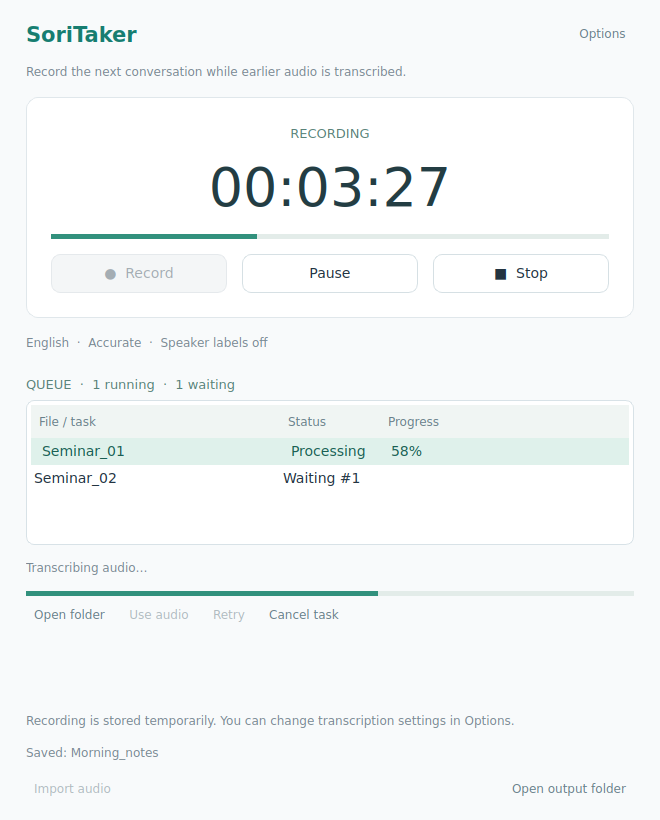
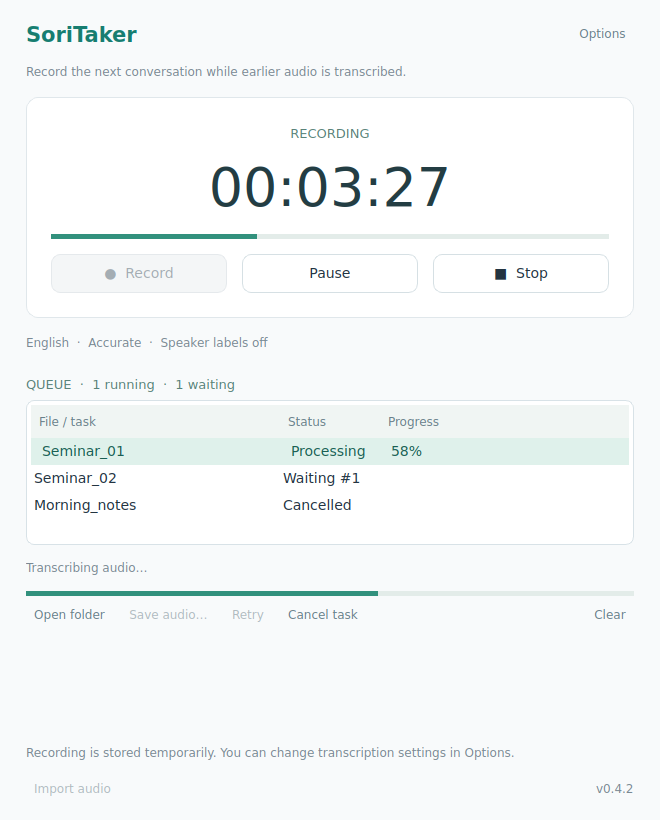
Release 0.4.2: add queue Clear, show version, and rename Save audio

diff --git a/src/gui.py b/src/gui.py
@@ -13,9 +13,9 @@ from PySide6.QtGui import QDesktopServices, QFontDatabase, QIcon
 from PySide6.QtWidgets import (QApplication, QWidget, QVBoxLayout, QHBoxLayout, QLabel,
     QPushButton, QLineEdit, QComboBox, QCheckBox, QSpinBox, QFileDialog, QMessageBox,
     QDialog, QProgressBar, QFrame, QTreeWidget, QTreeWidgetItem, QHeaderView, QScrollArea)
-from core import ensure_dirs, atomic_json, read_json, new_note, save_note, timestamp, discard_pending
+from core import ensure_dirs, atomic_json, read_json, new_note, save_note, timestamp, discard_pending, VERSION
 from models import ready, MODELS
-from job_queue import JobQueue, ACTIVE, RETRYABLE, source_of
+from job_queue import JobQueue, ACTIVE, RETRYABLE, CLEARABLE, source_of
 
 STYLE = '''
 QWidget { background: #f8fafb; color: #233441; font-family: ".AppleSystemUIFont", "Helvetica Neue", sans-serif; font-size: 14px; }
@@ -277,7 +277,6 @@ class Window(QWidget):
         self.queue=JobQueue(self.root, recover=not demo)
         self.queue_rows={}
         self.completed_ids=set()
-        self.last_output_folder=''
         self.source=''
         self.saved=False
         self.saved_paths=[]
@@ -416,12 +415,16 @@ class Window(QWidget):
         queue_layout.addWidget(self.progress)
         actions=QHBoxLayout()
         self.queue_open=button('Open folder',self.open_job_folder,'link')
-        self.queue_audio=button('Use audio',self.use_job_audio,'link')
+        self.queue_audio=button('Save audio…',self.save_job_audio,'link')
+        self.queue_audio.setToolTip('Open the preserved recording with Audio only selected.')
         self.queue_retry=button('Retry',self.retry_job,'link')
         self.cancel_button=button('Cancel task',self.cancel_job,'link')
         for widget in (self.queue_open,self.queue_audio,self.queue_retry,self.cancel_button):
             actions.addWidget(widget)
         actions.addStretch()
+        self.queue_clear=button('Clear',self.clear_finished_jobs,'link')
+        self.queue_clear.setToolTip('Remove finished, cancelled, and failed tasks from the list. Audio files are kept.')
+        actions.addWidget(self.queue_clear)
         queue_layout.addLayout(actions)
         layout.addWidget(self.queue_panel)
         self.queue_panel.hide()
@@ -438,7 +441,8 @@ class Window(QWidget):
         self.review_button.hide()
         footer.addWidget(self.review_button)
         footer.addStretch()
-        footer.addWidget(button('Open output folder',self.open_output_folder,'link'))
+        self.version_label=text(f'v{VERSION}')
+        footer.addWidget(self.version_label)
         layout.addLayout(footer)
         self.timer=QTimer(self)
         self.timer.timeout.connect(self.poll)
@@ -481,13 +485,6 @@ class Window(QWidget):
     def save_dialog_closed(self):
         if self.source and not self.recording:
             self.status.setText('Unsaved audio is preserved. Click Review recording to save or discard it.')
-
-    def open_output_folder(self):
-        folder=Path(self.last_output_folder or self.folder.text()).expanduser()
-        if folder.is_dir():
-            QDesktopServices.openUrl(QUrl.fromLocalFile(str(folder)))
-        else:
-            QMessageBox.information(self,'Output folder','This folder will be created when you save:\n'+str(folder))
 
     def keep_pending(self):
         # Unsaved recordings are kept on disk even when starting another recording.
@@ -725,23 +722,21 @@ class Window(QWidget):
 
     def refresh_queue(self):
         # A reported 100% can precede file export. Hide only confirmed successes.
-        completed=[item for item in self.queue.items if item['state']=='complete' and item['id'] not in self.completed_ids]
+        completed=[item for item in self.queue.items if item['state']=='complete' and not item.get('dismissed')
+                   and item['id'] not in self.completed_ids]
         if completed:
             self.completed_ids.update(item['id'] for item in completed)
             item=completed[-1]
             spec=item['spec']
             result=item.get('result',{})
-            paths=result.get('saved_paths',[])
-            if paths:
-                self.last_output_folder=str(Path(paths[0]).parent)
             message=('Model ready: '+MODELS[spec['model']]['name'] if spec['kind']=='download' else
                      'Saved: '+spec['export_name'])
             if result.get('warnings'):
                 message+=' — '+' / '.join(result['warnings'])
             self.completion_notice.setText(message)
-            self.completion_notice.setToolTip(message)
+            self.completion_notice.setToolTip(message+'\n'+'\n'.join(result.get('saved_paths',[])))
             self.completion_notice.show()
-        visible=[item for item in self.queue.items if item['state']!='complete']
+        visible=[item for item in self.queue.items if item['state']!='complete' and not item.get('dismissed')]
         visible_ids={item['id'] for item in visible}
         self.queue_view.blockSignals(True)
         for key in list(self.queue_rows):
@@ -782,6 +777,8 @@ class Window(QWidget):
         self.queue_open.setEnabled(bool(item))
         self.queue_retry.setEnabled(state in RETRYABLE)
         self.cancel_button.setEnabled(state in ('queued','running'))
+        self.queue_clear.setEnabled(any(task['state'] in CLEARABLE and not task.get('dismissed')
+                                       and task is not self.queue.active for task in self.queue.items))
         source=source_of(item['spec']) if item else ''
         self.queue_audio.setEnabled(state in RETRYABLE and bool(source) and Path(source).is_file() and
                                    not self.recording and not self.queue.owns_source(source))
@@ -801,7 +798,7 @@ class Window(QWidget):
             folder=Path(paths[0]).parent if paths else self.queue.folder(item)
             QDesktopServices.openUrl(QUrl.fromLocalFile(str(folder)))
 
-    def use_job_audio(self):
+    def save_job_audio(self):
         item=self.selected_job()
         if not item or item['state'] not in RETRYABLE or self.recording:
             return
@@ -812,7 +809,20 @@ class Window(QWidget):
             self.filename.setText(item['spec'].get('export_name',Path(source).stem))
             if item['spec'].get('export_folder'):
                 self.folder.setText(item['spec']['export_folder'])
+            self.save_mode.setCurrentIndex(self.save_mode.findData('save_audio'))
             self.open_save_dialog()
+
+    def clear_finished_jobs(self):
+        try:
+            count=self.queue.clear_finished()
+            if count:
+                self.completion_notice.hide()
+                if not self.recording and not self.source:
+                    self.status.setText('Queue cleared. Audio and saved files are preserved.')
+        except OSError as exc:
+            QMessageBox.warning(self,'Could not clear queue',str(exc))
+        finally:
+            self.refresh_queue()
 
     def retry_job(self):
         item=self.selected_job()

diff --git a/src/job_queue.py b/src/job_queue.py
@@ -16,6 +16,7 @@ from models import clear_legacy_offline_flags
 
 ACTIVE = {'queued', 'running', 'cancelling'}
 RETRYABLE = {'failed', 'cancelled', 'interrupted'}
+CLEARABLE = RETRYABLE | {'complete'}
 
 
 def source_of(spec):
@@ -42,7 +43,7 @@ class JobQueue:
                     continue
                 if not isinstance(item, dict):
                     item = dict(created=folder.stat().st_mtime_ns, state='interrupted',
-                                message='Recovered unfinished task. Retry or use the audio file.')
+                                message='Recovered unfinished task. Retry or save the audio file.')
                     source = source_of(spec)
                     original = Path(spec.get('input_original', ''))
                     if source and not Path(source).is_file() and original.is_file() and original.resolve().parent == (self.root/'recordings').resolve():
@@ -190,7 +191,7 @@ class JobQueue:
                     item.update(state='complete', result=result, message=result['message'], progress=100)
                 elif item['state'] == 'cancelling':
                     item.update(state='interrupted' if self.stopping else 'cancelled',
-                                message='Audio is preserved. Retry or use the audio file.', progress=None)
+                                message='Audio is preserved. Retry or save the audio file.', progress=None)
                 else:
                     item.update(state='failed', message=status.get('message') or 'Worker stopped. Audio is preserved.', progress=None)
                 self.persist(item)
@@ -226,11 +227,22 @@ class JobQueue:
         source = source_of(item['spec'])
         if source and self.owns_source(source):
             raise ValueError('This file is already being processed in another queue entry.')
-        item.update(state='queued', message='Waiting', progress=None, created=time.time_ns())
+        item.update(state='queued', message='Waiting', progress=None, created=time.time_ns(), dismissed=False)
         # Do not erase completion receipts. The worker checks them under the lock.
         self.persist(item)
         self.items.remove(item)
         self.items.append(item)
+
+    def clear_finished(self):
+        """Dismiss finished rows durably; retain audio, logs, and export receipts."""
+        count = 0
+        for item in self.items:
+            if item['state'] in CLEARABLE and not item.get('dismissed') and item is not self.active:
+                updated = dict(item, dismissed=True)
+                self.persist(updated)
+                item['dismissed'] = True
+                count += 1
+        return count
 
     def shutdown(self):
         self.stopping = True

diff --git a/tests/test_recording_choices.py b/tests/test_recording_choices.py
@@ -345,6 +345,39 @@ class RecordingChoiceGUITests(RecordingChoiceFixture, unittest.TestCase):
         self.assertEqual(spec['kind'], 'save_audio')
         self.assertEqual(spec['source'], str(self.source))
 
+    def test_save_audio_opens_audio_only_and_clear_keeps_capture_and_waiting_work(self):
+        cancelled=self.window.queue.enqueue(dict(kind='save_audio',source=str(self.source),
+            export_name='Keep audio',export_folder=str(self.root/'exports')))
+        self.window.queue.cancel(cancelled)
+        waiting=self.window.queue.enqueue(dict(kind='download',model='large'))
+        self.window.refresh_queue()
+        self.window.queue_view.setCurrentItem(self.window.queue_rows[cancelled['id']])
+        self.window.queue_audio.click()
+        self.assertTrue(self.window.save_dialog.isVisible())
+        self.assertEqual(self.window.save_mode.currentData(),'save_audio')
+        self.assertEqual(self.window.filename.text(),'Keep audio')
+        self.window.save_dialog.reject()
+        self.window.source=''
+        rec=gui.Recorder(self.root/'recordings'/'next.wav')
+        self.window.recording=rec
+        self.window.state.setText('RECORDING')
+        self.window.queue_clear.click()
+        self.assertEqual(self.window.queue_view.topLevelItemCount(),1)
+        self.assertIs(self.window.selected_job(),waiting)
+        self.assertIs(self.window.recording,rec)
+        self.assertFalse(rec.stop_event.is_set())
+        self.assertEqual(self.window.state.text(),'RECORDING')
+        self.assertTrue(Path(job_queue.source_of(cancelled['spec'])).is_file())
+        self.assertFalse(self.window.queue_clear.isEnabled())
+        self.window.queue=job_queue.JobQueue(self.root)
+        self.window.refresh_queue()
+        self.assertEqual(self.window.queue_view.topLevelItemCount(),1)
+        self.window.queue.cancel(self.window.selected_job())
+        self.window.refresh_queue()
+        self.window.queue_clear.click()
+        self.assertEqual(self.window.queue_view.topLevelItemCount(),0)
+        self.assertTrue(self.window.queue_panel.isHidden())
+
     def test_discard_cancel_preserves_then_confirm_deletes_pending_work(self):
         folder, job = self.partial_attempt(self.source)
         self.window.set_source(str(self.source))

diff --git a/tests/test_job_queue.py b/tests/test_job_queue.py
@@ -68,6 +68,41 @@ class Fixture(unittest.TestCase):
 
 
 class QueueTests(Fixture):
+    def test_clear_retains_audio_and_receipts_and_persists_across_restart(self):
+        cancelled=self.queue.enqueue(self.spec('Cancelled'))
+        self.queue.cancel(cancelled)
+        interrupted=self.queue.enqueue(self.spec('Interrupted'))
+        interrupted['state']='interrupted'
+        self.queue.persist(interrupted)
+        completed=self.queue.enqueue(self.spec('Completed'))
+        receipt=self.queue.folder(completed)/'result.json'
+        atomic_json(receipt,dict(state='complete',message='Saved',saved_paths=[]))
+        completed['state']='complete'
+        pending=self.queue.enqueue(self.spec('Waiting'))
+        stopping=self.queue.enqueue(self.spec('Stopping'))
+        stopping['state']='cancelling'
+        self.queue.active=stopping
+        self.assertEqual(self.queue.clear_finished(),3)
+        self.assertEqual(self.queue.clear_finished(),0)
+        self.assertTrue(Path(source_of(cancelled['spec'])).is_file())
+        self.assertTrue(Path(source_of(interrupted['spec'])).is_file())
+        self.assertTrue(receipt.is_file())
+        self.assertFalse(pending.get('dismissed',False))
+        self.assertFalse(stopping.get('dismissed',False))
+        restored=JobQueue(self.root)
+        self.assertEqual({i['id'] for i in restored.items if i.get('dismissed')},
+                         {cancelled['id'],interrupted['id'],completed['id']})
+        self.assertTrue(Path(source_of(cancelled['spec'])).is_file())
+
+    def test_clear_failure_keeps_task_visible_and_preserves_source(self):
+        item=self.queue.enqueue(self.spec('Keep'))
+        self.queue.cancel(item)
+        with patch.object(self.queue,'persist',side_effect=OSError('Disk full')):
+            with self.assertRaises(OSError):
+                self.queue.clear_finished()
+        self.assertFalse(item.get('dismissed',False))
+        self.assertTrue(Path(source_of(item['spec'])).is_file())
+
     def test_fifo_and_frozen_settings_while_another_job_is_running(self):
         spec = self.spec('First','transcribe')
         with patch('job_queue.subprocess.Popen',side_effect=FakeProcess) as spawn:

diff --git a/src/core.py b/src/core.py
@@ -10,7 +10,7 @@ from datetime import datetime
 from pathlib import Path
 
 APP_NAME = "SoriTaker"
-VERSION = "0.4.1"
+VERSION = "0.4.2"
 
 
 def data_home() -> Path:

diff --git a/README.md b/README.md
@@ -7,7 +7,7 @@ Record, pause, choose what to keep, and save audio with an optional Korean or
 English transcript. The interface, installer messages, diagnostics, and developer
 documentation are in English. The Korean language option uses its native label.
 
-**Version: 0.4.1 · Early personal-use release**
+**Version: 0.4.2 · Early personal-use release**
 
 ![SoriTaker recording screen](preview.png)
 
@@ -118,14 +118,14 @@ folder. The old app is backed up only after the new build passes its checks.
      a model, transcribing, or converting its format. No models are required.
 6. The dialog closes as soon as the task is queued, so you can start the next
    recording immediately. Successful tasks disappear from **Queue** after their
-   files finish saving. **Open output folder** opens the most recently saved
-   output folder, or your configured destination if nothing has finished yet.
+   files finish saving. The version is shown at the bottom right of the main
+   screen. Saved output paths are also available in the completion message tooltip.
 
 ![Save dialog opened by Stop](preview-save.png)
 
 **Cancel**, Escape, or closing the save dialog keeps the unsaved audio. Click
 **Review recording** to reopen it with the same filename and choices. Imported
-files and **Use audio** open this dialog too. An unsaved microphone recording
+files and **Save audio…** open this dialog too. An unsaved microphone recording
 is offered again after relaunch. There is no Save button on the main screen.
 
 Example output from a microphone recording:
@@ -150,7 +150,7 @@ keeps the external original. The save dialog closes after a confirmed discard.
 
 Select a waiting or processing task in **Queue** and click **Cancel task** to stop
 that task. Cancellation preserves its audio and does not stop a new recording.
-Use **Retry** to run the same task again, or **Use audio** to bring the recording
+Use **Retry** to run the same task again, or **Save audio…** to bring the recording
 back to the save dialog and choose audio-only saving or different settings.
 
 ## Background queue
@@ -177,12 +177,19 @@ warnings) remains below the queue.
 
 Select a task to see its message. **Open folder** opens that task's job folder
 when investigating unfinished work. **Cancel task** affects only the selected task.
-Failed, cancelled, and interrupted tasks stay available for recovery, and the next
-waiting task can continue without a popup interrupting a new recording.
+Failed, cancelled, and interrupted tasks stay available for recovery until you
+click **Clear**. Clear removes all finished entries from the list, including
+cancelled and failed tasks; it leaves waiting, running, and cancelling tasks alone.
+Cleared entries remain hidden after relaunch. Audio, exports, logs, and completion
+receipts are preserved in their existing locations. App-owned audio for a cleared
+unfinished task remains under the app data folder at `jobs/<task-id>/recording.wav`
+and can be imported again. The next waiting task can continue without a popup
+interrupting a new recording.
 
 **Retry** puts a failed, cancelled, or interrupted task at the back of the queue
-with its saved settings. **Use audio** returns its source to the save dialog while
-recording is stopped, so you can change the model or save only the audio.
+with its saved settings. **Save audio…** opens the preserved source in the save
+dialog with **Audio only** selected. You can choose a destination and filename,
+or switch to audio + transcript. It is available while recording is stopped.
 
 Closing the app asks before stopping capture and active work. Waiting tasks remain
 on disk and resume on the next launch. An interrupted task is kept for manual retry;

diff --git a/VALIDATION.md b/VALIDATION.md
@@ -4,6 +4,8 @@ Environment: Linux x86_64, Python 3.12.14. Supported platform: Apple Silicon Mac
 
 Completed:
 
+- Version 0.4.2: 65 automated tests passed. Clear dismisses completed, cancelled, failed, and interrupted rows durably without deleting audio, logs, or receipts. Tests cover relaunch persistence, preservation of waiting/cancelling tasks and foreground capture, and a failed metadata write. Save audio opens the save dialog with Audio only selected. The footer displays the app version instead of a second folder button.
+
 - Version 0.4.1: 62 automated tests passed. Stop opens a nonblocking modal save dialog after the recorder finishes; Escape preserves the audio and choices for Review recording; imports and Options use the same dialog; invalid names and queue failures keep the dialog open. Save and confirmed discard close it. The main screen has no Save button.
 - Queue display checks distinguish reported 100% from confirmed completion, keep failed work visible, move selection to remaining work, and preserve recognition warnings in a completion message. Real worker/capture integration verifies that completed rows disappear while the next recording stays paused, exported WAV/TXT files survive, and completion receipts prevent completed entries from reappearing after relaunch.
 - Version 0.4.0: 58 automated tests passed. New queue checks cover serial ordering, per-task settings, audio handoff rollback, process-start and worker failures, pending cancellation, a completion/cancel race, retry ordering, shutdown/relaunch recovery, interrupted enqueue recovery, imported-file preservation, and duplicate-export prevention.
